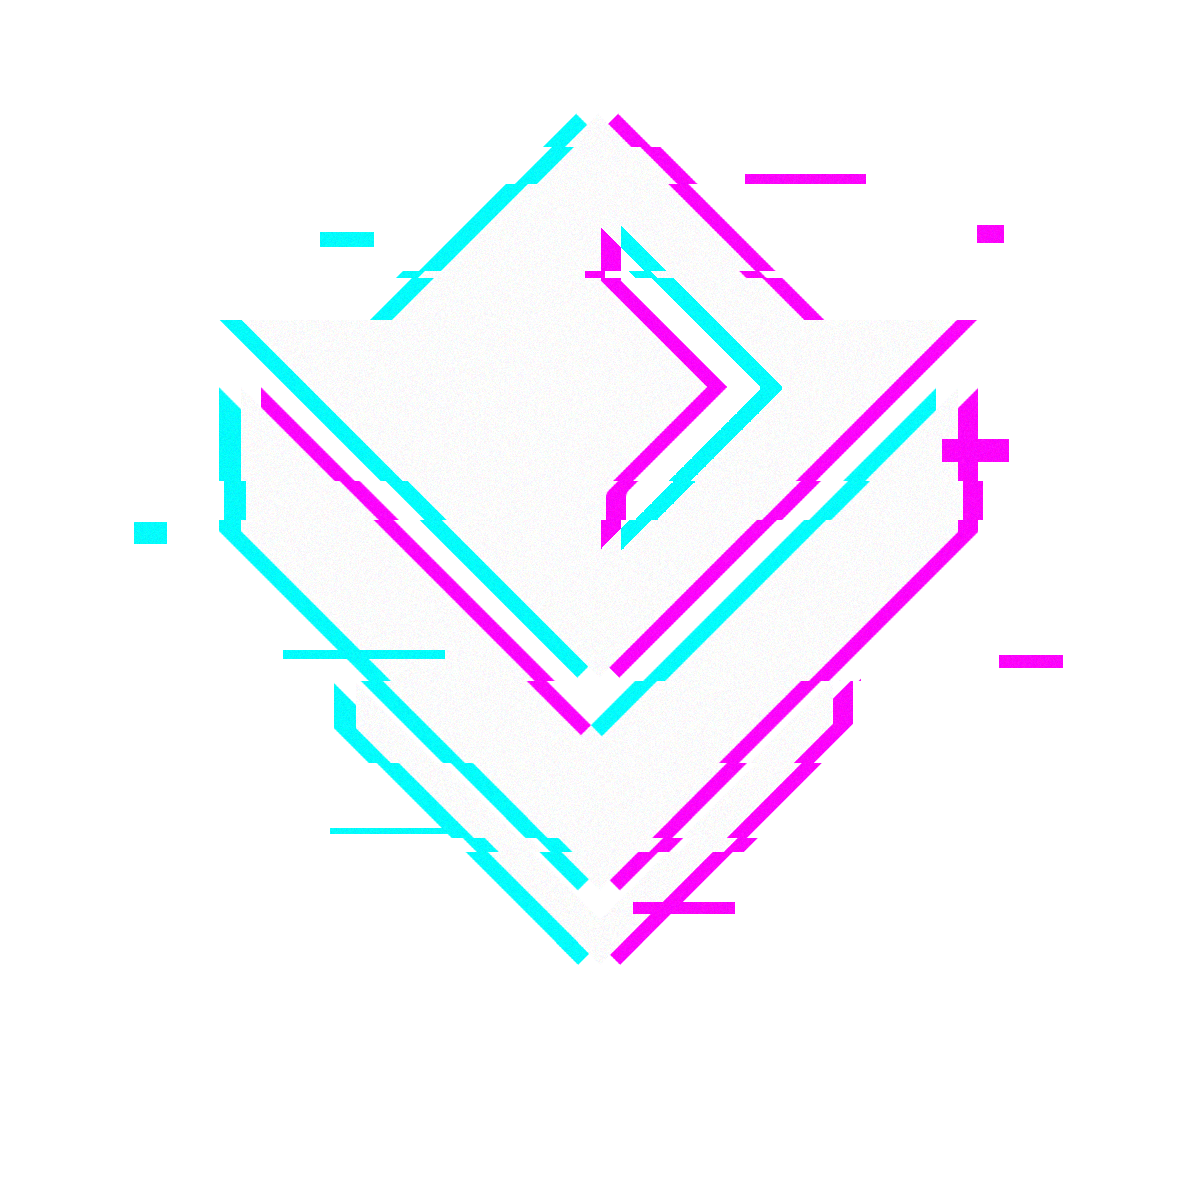
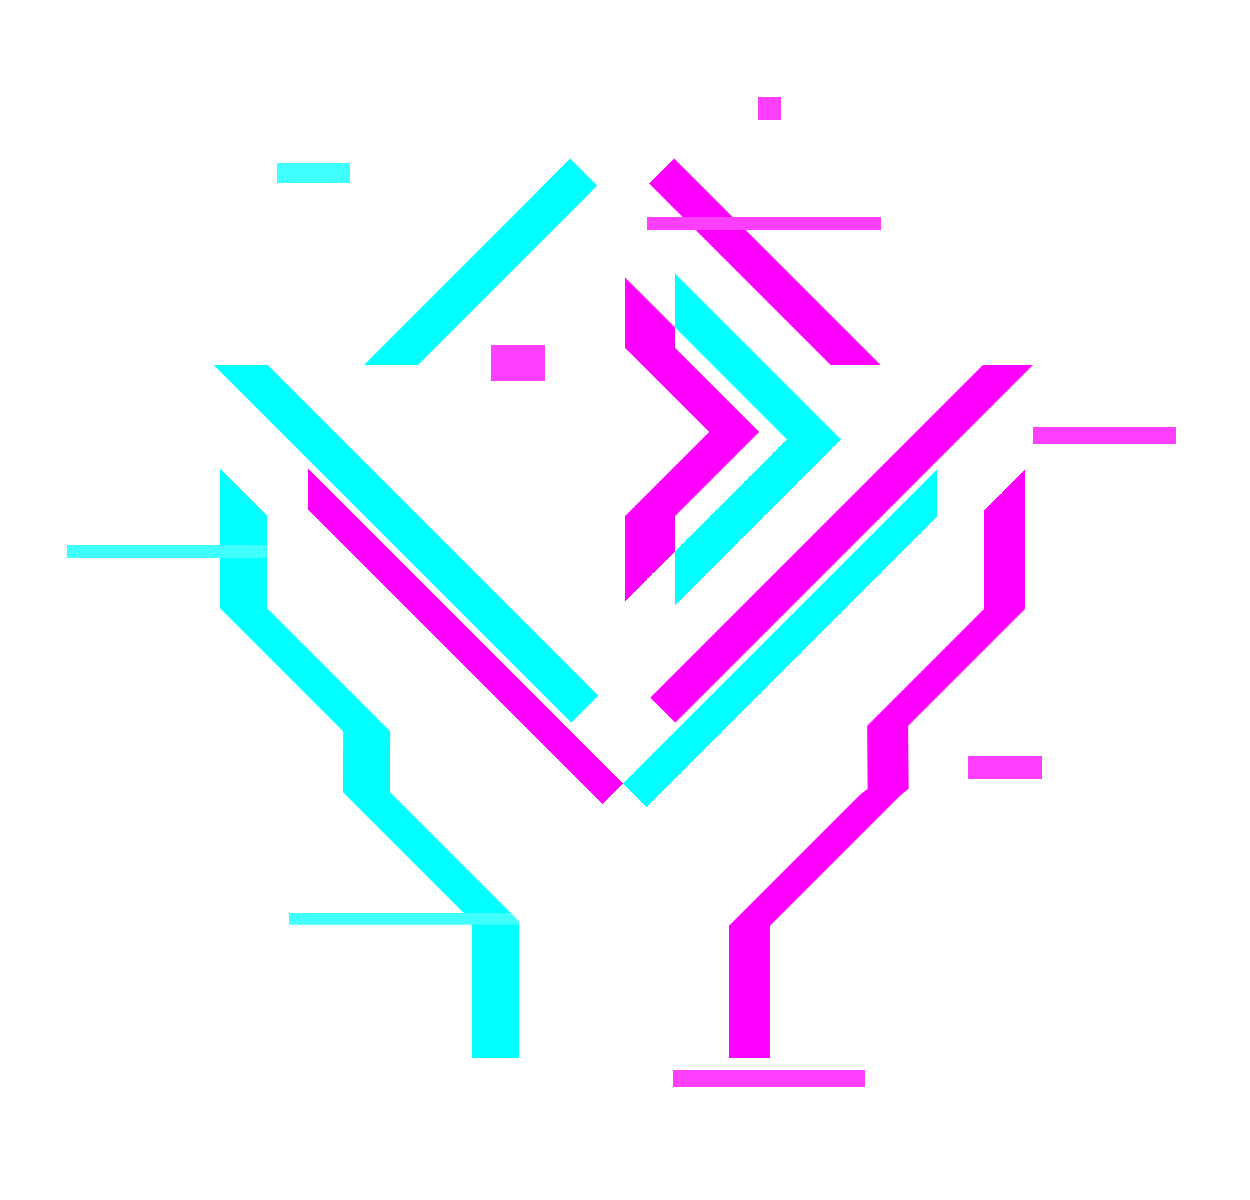
디자인 작업물 변경

diff --git a/utterance/src/components/notice/NoticeBoxStyle.ts b/utterance/src/components/notice/NoticeBoxStyle.ts
@@ -19,7 +19,7 @@ export const NoticeStyle = styled.div`
         height: 100%;
         padding: 11% 7% 8% 7%;
         background: rgba(255, 255, 255, 0.2);
-        background: url("/images/twitter/twitterframe.webp") no-repeat 50% 50%;
+        background: url("/images/twitter/messageframe.webp") no-repeat 50% 50%;
         background-size: 100% 100%;
         display: flex;
         flex-direction: column;
